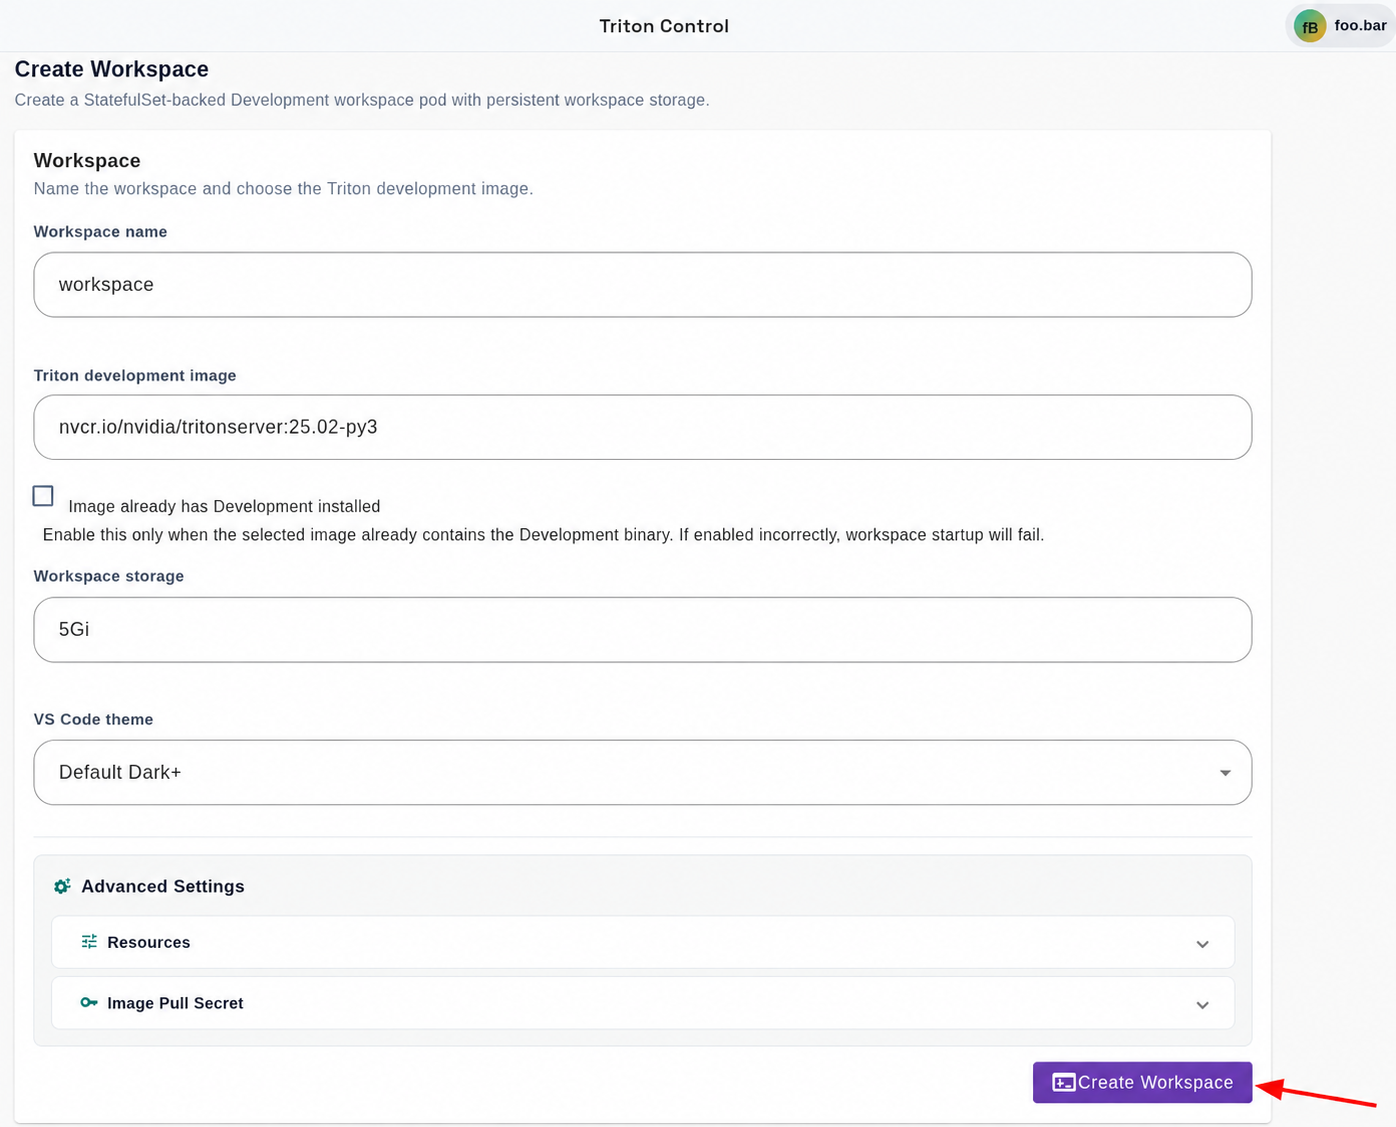
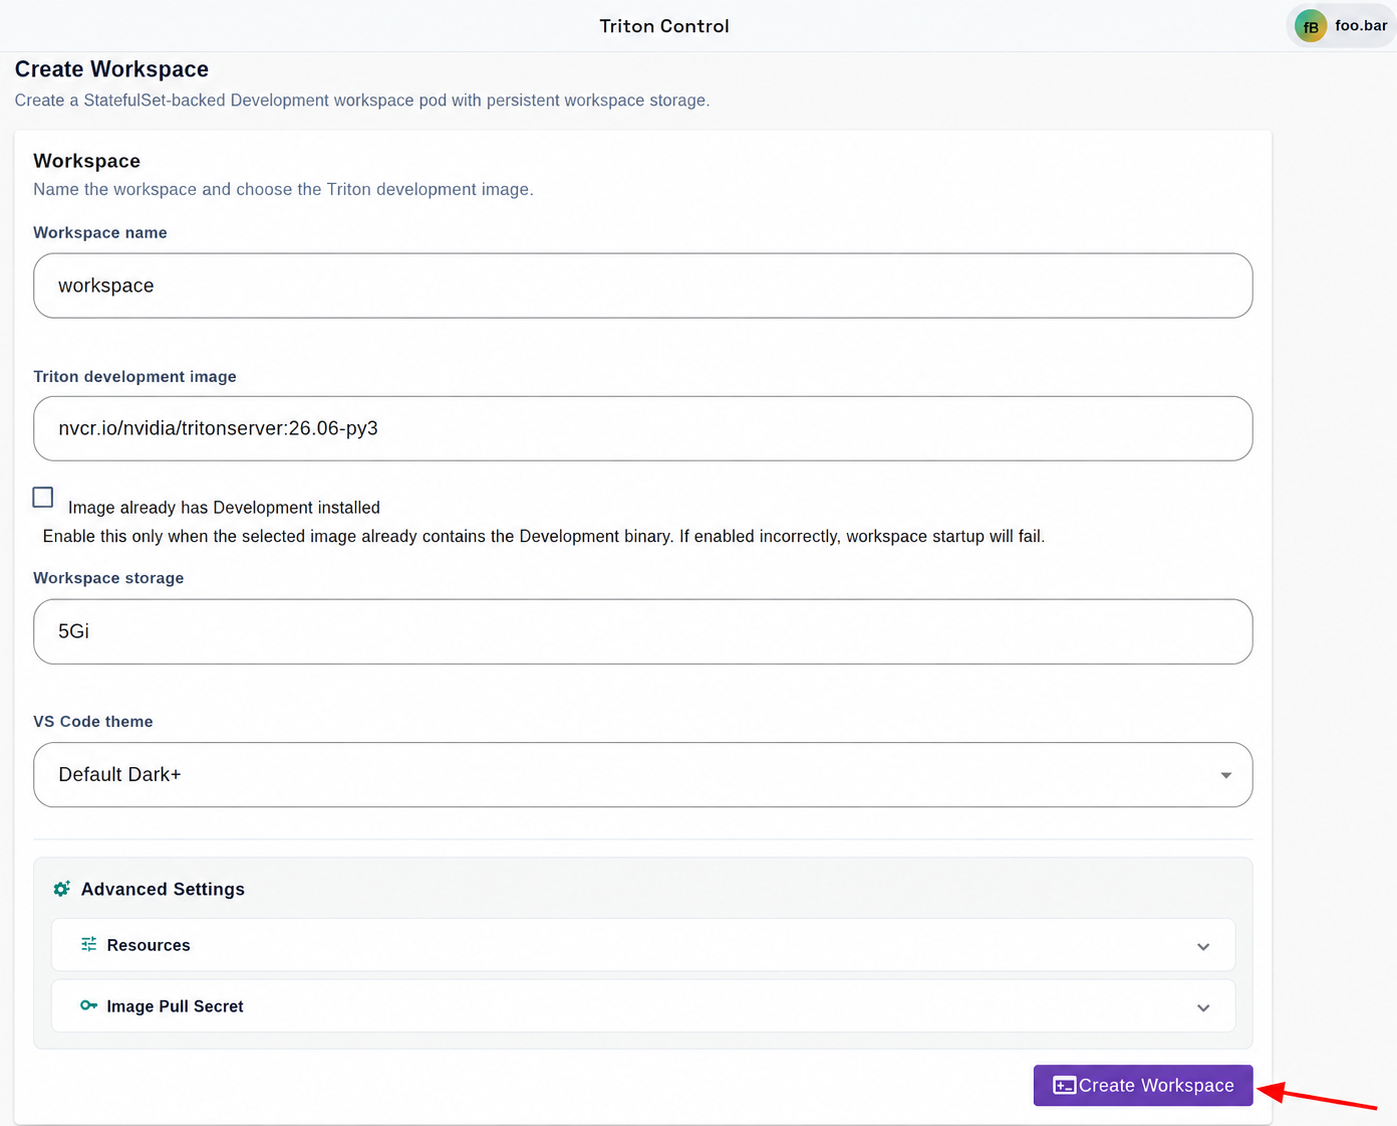
docs: update Triton development image version and improve README clarity

diff --git a/examples/workflows/sklearn-iris-training/README.md b/examples/workflows/sklearn-iris-training/README.md
@@ -21,7 +21,7 @@ writing and testing the training code:
 
 | Field | Value |
 | --- | --- |
-| Triton development image | `nvcr.io/nvidia/tritonserver:25.02-py3` |
+| Triton development image | `nvcr.io/nvidia/tritonserver:26.06-py3` |
 | Image already has Development installed | Disabled |
 | Workspace storage | At least `5Gi` |
 | GPU count | `0` |
@@ -34,18 +34,14 @@ include code-server.
 
 ## 2. Create the Training Code in the Workspace
 
-Copy or upload only `train_iris.py` and `workflow.yaml` from this example into
-`/workspace/sklearn-iris-training`, then open that directory in code-server.
-`train_iris.py` is the training code that the workflow will execute. It trains
-a `StandardScaler` plus `LogisticRegression` pipeline on
-`sklearn.datasets.load_iris` and writes these files to its output directory:
+In the workspace, create a directory for the example: `/workspace/sklearn-iris-training`
 
-```text
-iris-logreg-model.joblib
-metrics.json
-accuracy.txt
-labels.txt
-```
+Then copy or upload `train_iris.py` and `workflow.yaml` from this example into
+that directory. `train_iris.py` is the training code that the workflow will execute. It trains
+a `StandardScaler` plus `LogisticRegression` pipeline on
+`sklearn.datasets.load_iris` and writes the training results to its output
+directory.
+
 
 Edit the script in the workspace to try a different model, feature processing,
 or training arguments. Keep the output files, or update the validation and
@@ -87,9 +83,7 @@ aws --profile workflow-training \
 
 In Triton Control, open **Workflows**, select **Configure S3 Secrets**, and add
 the access key ID and secret access key that can read the script and write the
-workflow outputs. Triton Control creates an opaque Kubernetes Secret in the
-Argo Workflow namespace; this is separate from the AWS CLI profile saved in
-the Development workspace.
+workflow outputs. Triton Control creates an Kubernetes Secret.
 
 Copy the generated **Secret** name shown in the credentials dialog. The
 workflow uses only this name; it never contains the credential values. The
